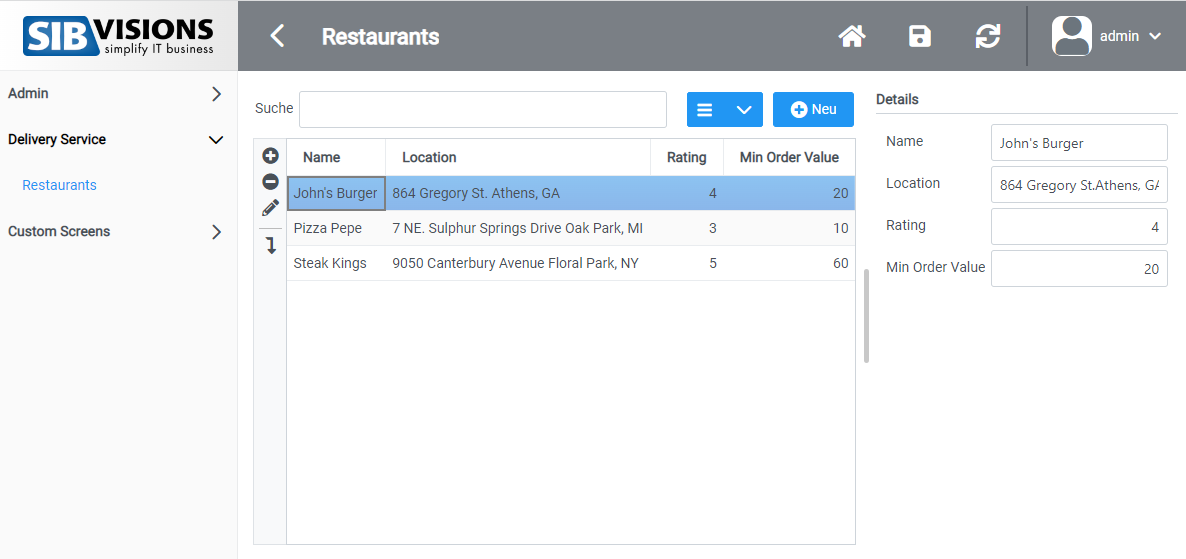
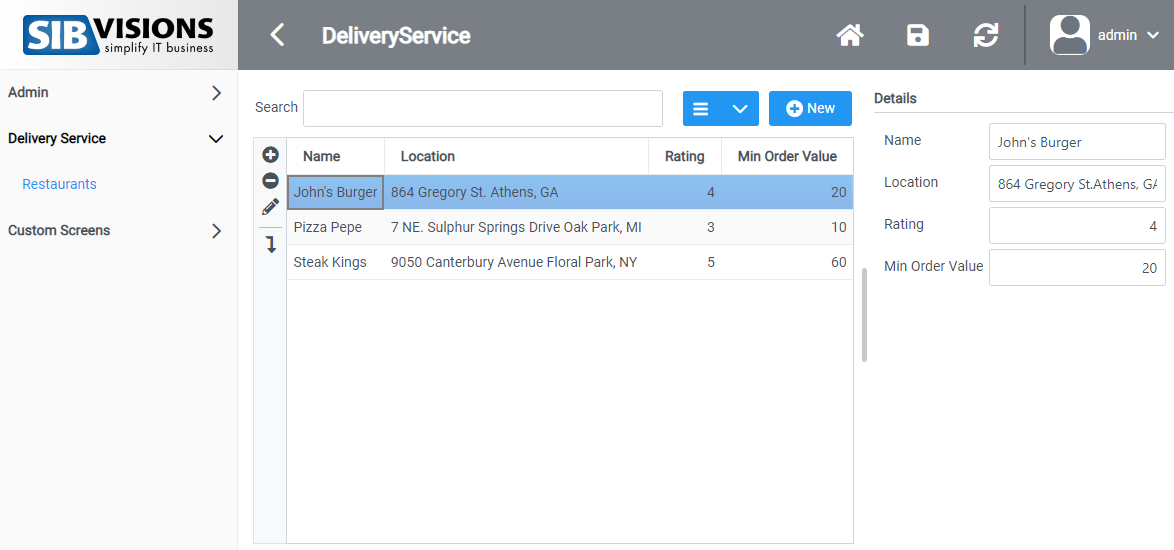
changed to english screenshots

diff --git a/src/CustomRestaurantScreen.tsx b/src/CustomRestaurantScreen.tsx
@@ -84,7 +84,7 @@ const CustomRestaurantScreen:FC<{}> = () => {
                 onChange={(e) => setSelectedRestaurant(e.value)} 
                 optionLabel="label" />
             <div style={{ display: "flex", flexDirection: "column", alignItems: "center", position: "relative" }}>
-                <span style={{ position: "absolute", right: "0px", color: "white", zIndex: "1" }} >source: https://www.pexels.com/ </span>
+                <span style={{ position: "absolute", right: "0px", color: "#d4d8dc", zIndex: "1" }} >source: https://www.pexels.com/ </span>
                 <Galleria value={selectedImages} numVisible={3} item={itemTemplate} thumbnail={thumbnailTemplate} style={{ maxWidth: "1200px", flex: "1" }} /> 
             </div>
             
